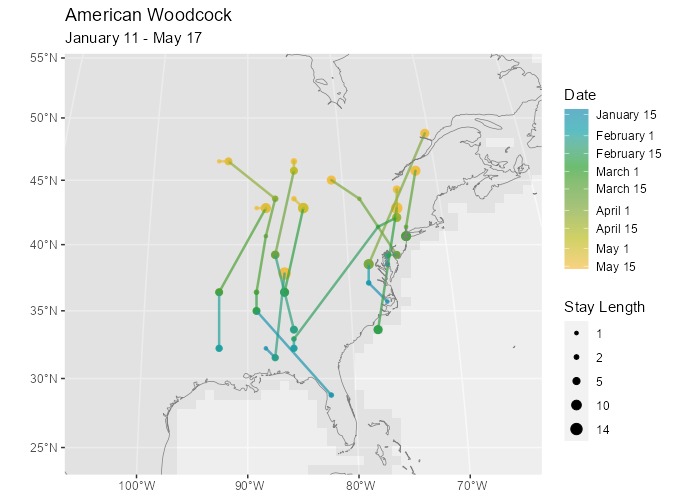
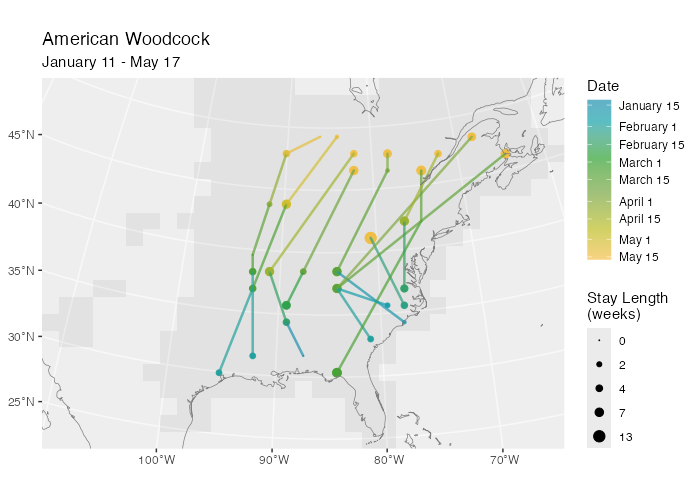
Merge pull request #246 from birdflow-science/208-install-issues
Added `dependencies = TRUE` to the BirdFlowR installation lines.
Added info on troubleshooting bioconductor installation of hdf5 package to Installation Vignette

Pull request: 208 install issues
* Update and test docker file
* Add `dependencies = TRUE` to the install command. 
* Add section on bioconductor to the installation vignette
* Link to installation vignette from README

diff --git a/README.md b/README.md
@@ -13,16 +13,13 @@ coverage](https://codecov.io/gh/birdflow-science/BirdFlowR/branch/main/graph/bad
 An R package to predict changes in bird distributions and generate
 synthetic migration routes based on BirdFlow models.
 
-This package is under development and not yet formally released.
-Function names and arguments may change.
-
 ## Installation
 
 Install just the package:
 
 ``` r
-if(!require("remotes"))
-  install.packages("remotes") 
+if (!require("remotes"))
+  install.packages("remotes")
 remotes::install_github("birdflow-science/BirdFlowR")
 ```
 
@@ -30,16 +27,17 @@ Or to install with example data and vignette:
 
 ``` r
 installed <- rownames(installed.packages())
-if(!"remotes" %in% installed)
+if (!"remotes" %in% installed)
   install.packages("remotes")
-if(!"rnaturalearthdata" %in% installed)
+if (!"rnaturalearthdata" %in% installed)
   install.packages("rnaturalearthdata")
 remotes::install_github("birdflow-science/BirdFlowModels")
-remotes::install_github("birdflow-science/BirdFlowR", build_vignettes = TRUE)
+remotes::install_github("birdflow-science/BirdFlowR", build_vignettes = TRUE, dependencies = TRUE)
 ```
 
-See `vignette("Installation")` for troubleshooting and more installation
-options.
+See the [Installation
+vignette](https://birdflow-science.github.io/BirdFlowR/articles/Installation.html)
+for more information and help troubleshooting.
 
 ## Usage
 
@@ -47,9 +45,9 @@ The two primary functions are `predict()` to project distributions and
 `route()` to generate synthetic routes.
 
 `route_migration()` is a wrapper to `route()` which automates sampling
-locations from the a distribution for the start of the migration and
-setting the start and end dates to route for the migration window. We
-can use it to create synthetic routes for a species.
+locations from a distribution for the start of the migration and setting
+the start and end dates to route for the migration window. We can use it
+to create synthetic routes for a species.
 
 ``` r
 library(BirdFlowR)
@@ -67,7 +65,7 @@ rts <- route(bf, n = 10, season = "prebreeding")
 plot_routes(rts, bf)
 ```
 
-<img src="man/figures/README-examples-1.png" width="100%" />
+<img src="man/figures/README-examples-1.png" alt="" width="100%" />
 
 Visualize the movement in the BirdFlow model for a timestep.
 
@@ -76,7 +74,7 @@ Visualize the movement in the BirdFlow model for a timestep.
 plot_movement_vectors(bf, start = 12)
 ```
 
-<img src="man/figures/README-movement_vectors-1.png" width="100%" />
+<img src="man/figures/README-movement_vectors-1.png" alt="" width="100%" />
 
 ## Learn more
 
@@ -86,7 +84,7 @@ plot_movement_vectors(bf, start = 12)
 - `vignette("Installation")` for detailed installation instructions.
 - `vignette("Preprocess")` covers downloading and formatting data for
   model fitting with `preprocess_species()`, importing fitted models
-  with `import_birdflow()`, and reducing model size with `sparsify()`.  
+  with `import_birdflow()`, and reducing model size with `sparsify()`.\
 - Read the paper:
   - [BirdFlow: Learning Seasonal Bird Movements from Citizen Science
     Data](https://www.biorxiv.org/content/10.1101/2022.04.12.488057v1)